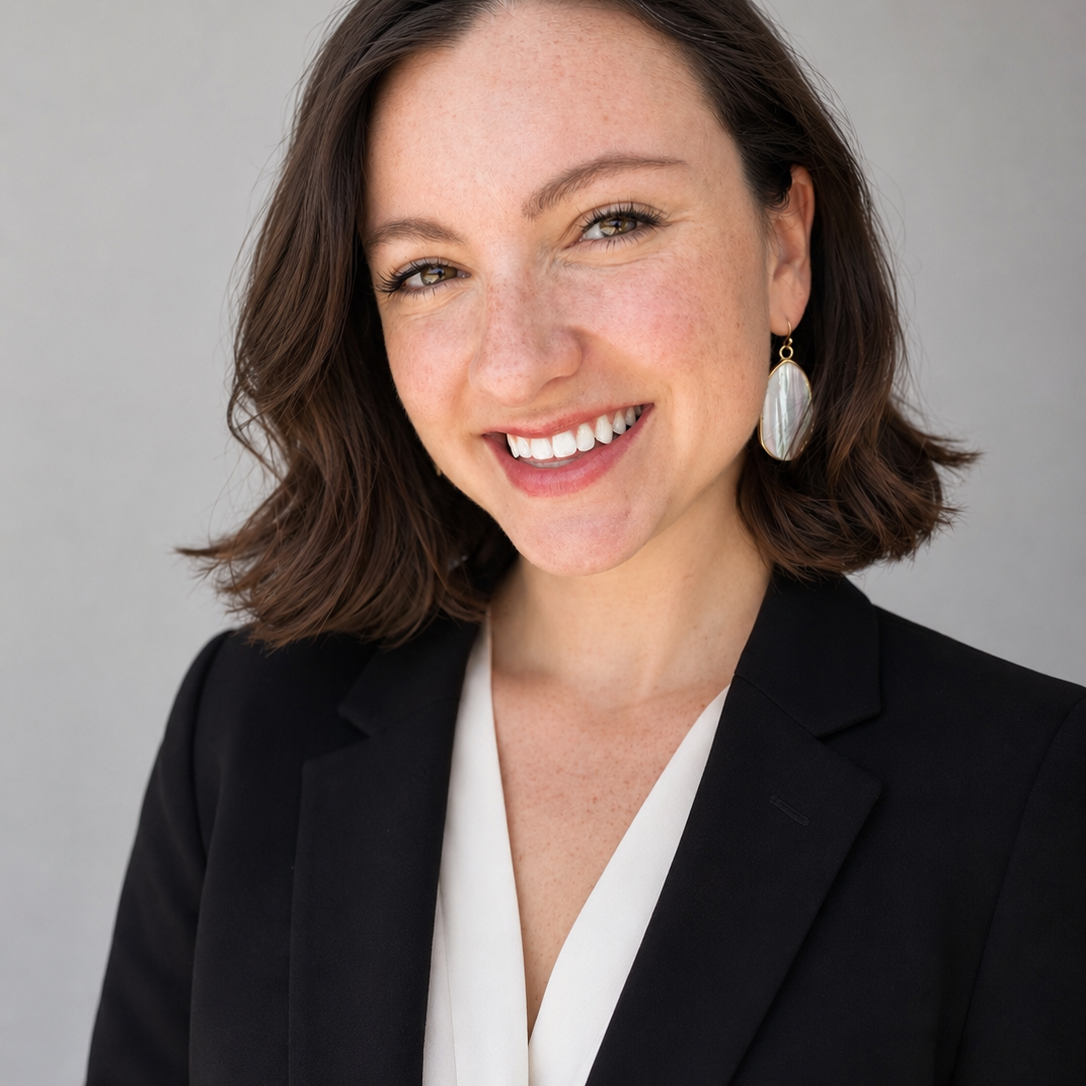
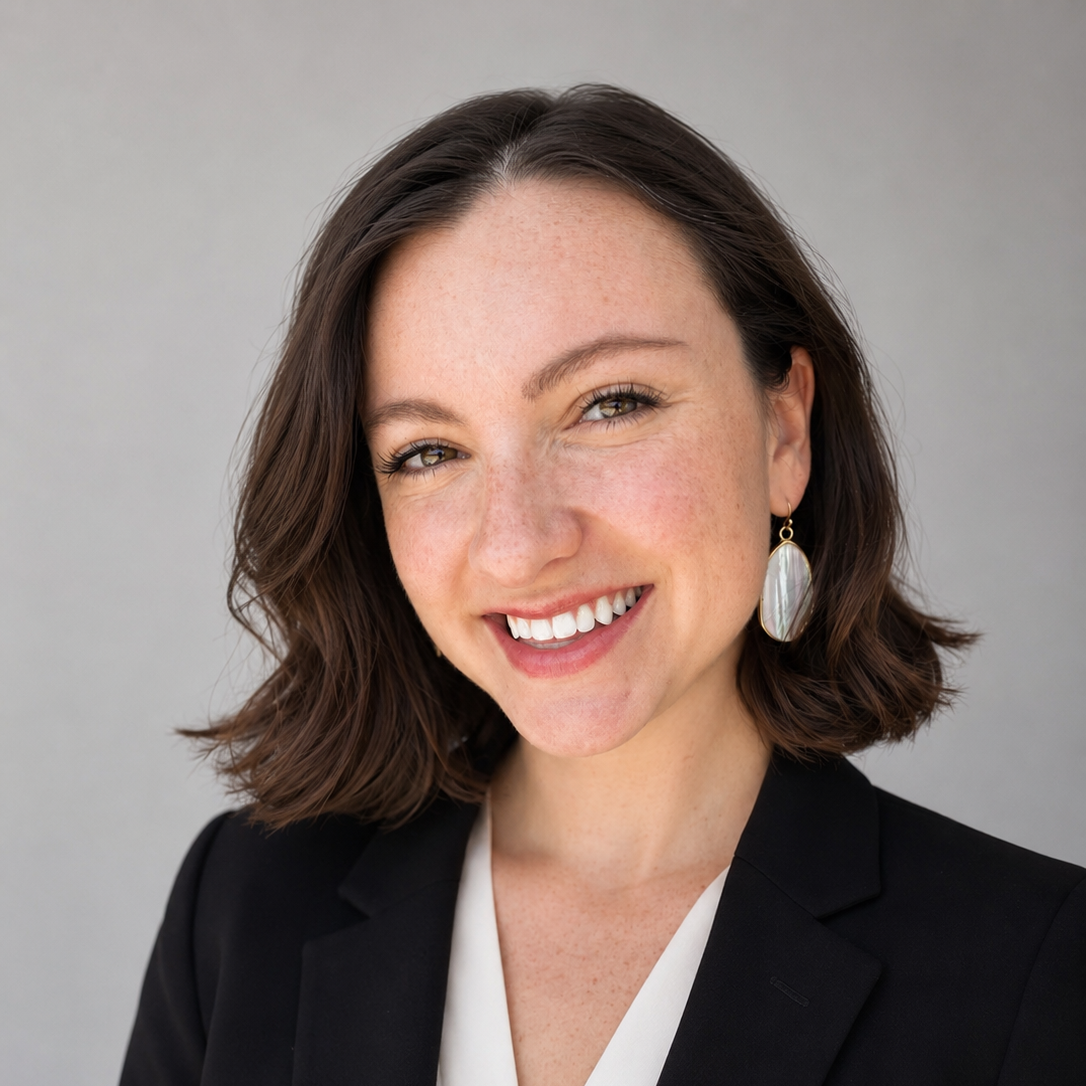
Fix signature OAuth key handling

diff --git a/email-signature-manager/README.md b/email-signature-manager/README.md
@@ -68,6 +68,7 @@ Book promo variants are included for Sterling, Anna-Marie, and Wyatt.
 - Use `clasp pull` only to reconcile intentional Apps Script editor changes; do not treat an unreviewed pull as canonical.
 - Use `clasp push` after review to synchronize approved repository code to Apps Script.
 - Test signature changes against Harvey before pushing to another user or using **Push All Active**.
+- Run `testFreshHarveyConnection` after rotating the service-account key; it clears Harvey's cached OAuth token before verifying that the replacement key can mint a fresh token.
 - Create a numbered Apps Script version before updating the production web-app deployment.
 - Do not edit production code directly in the Apps Script editor after this workflow is established.
 
